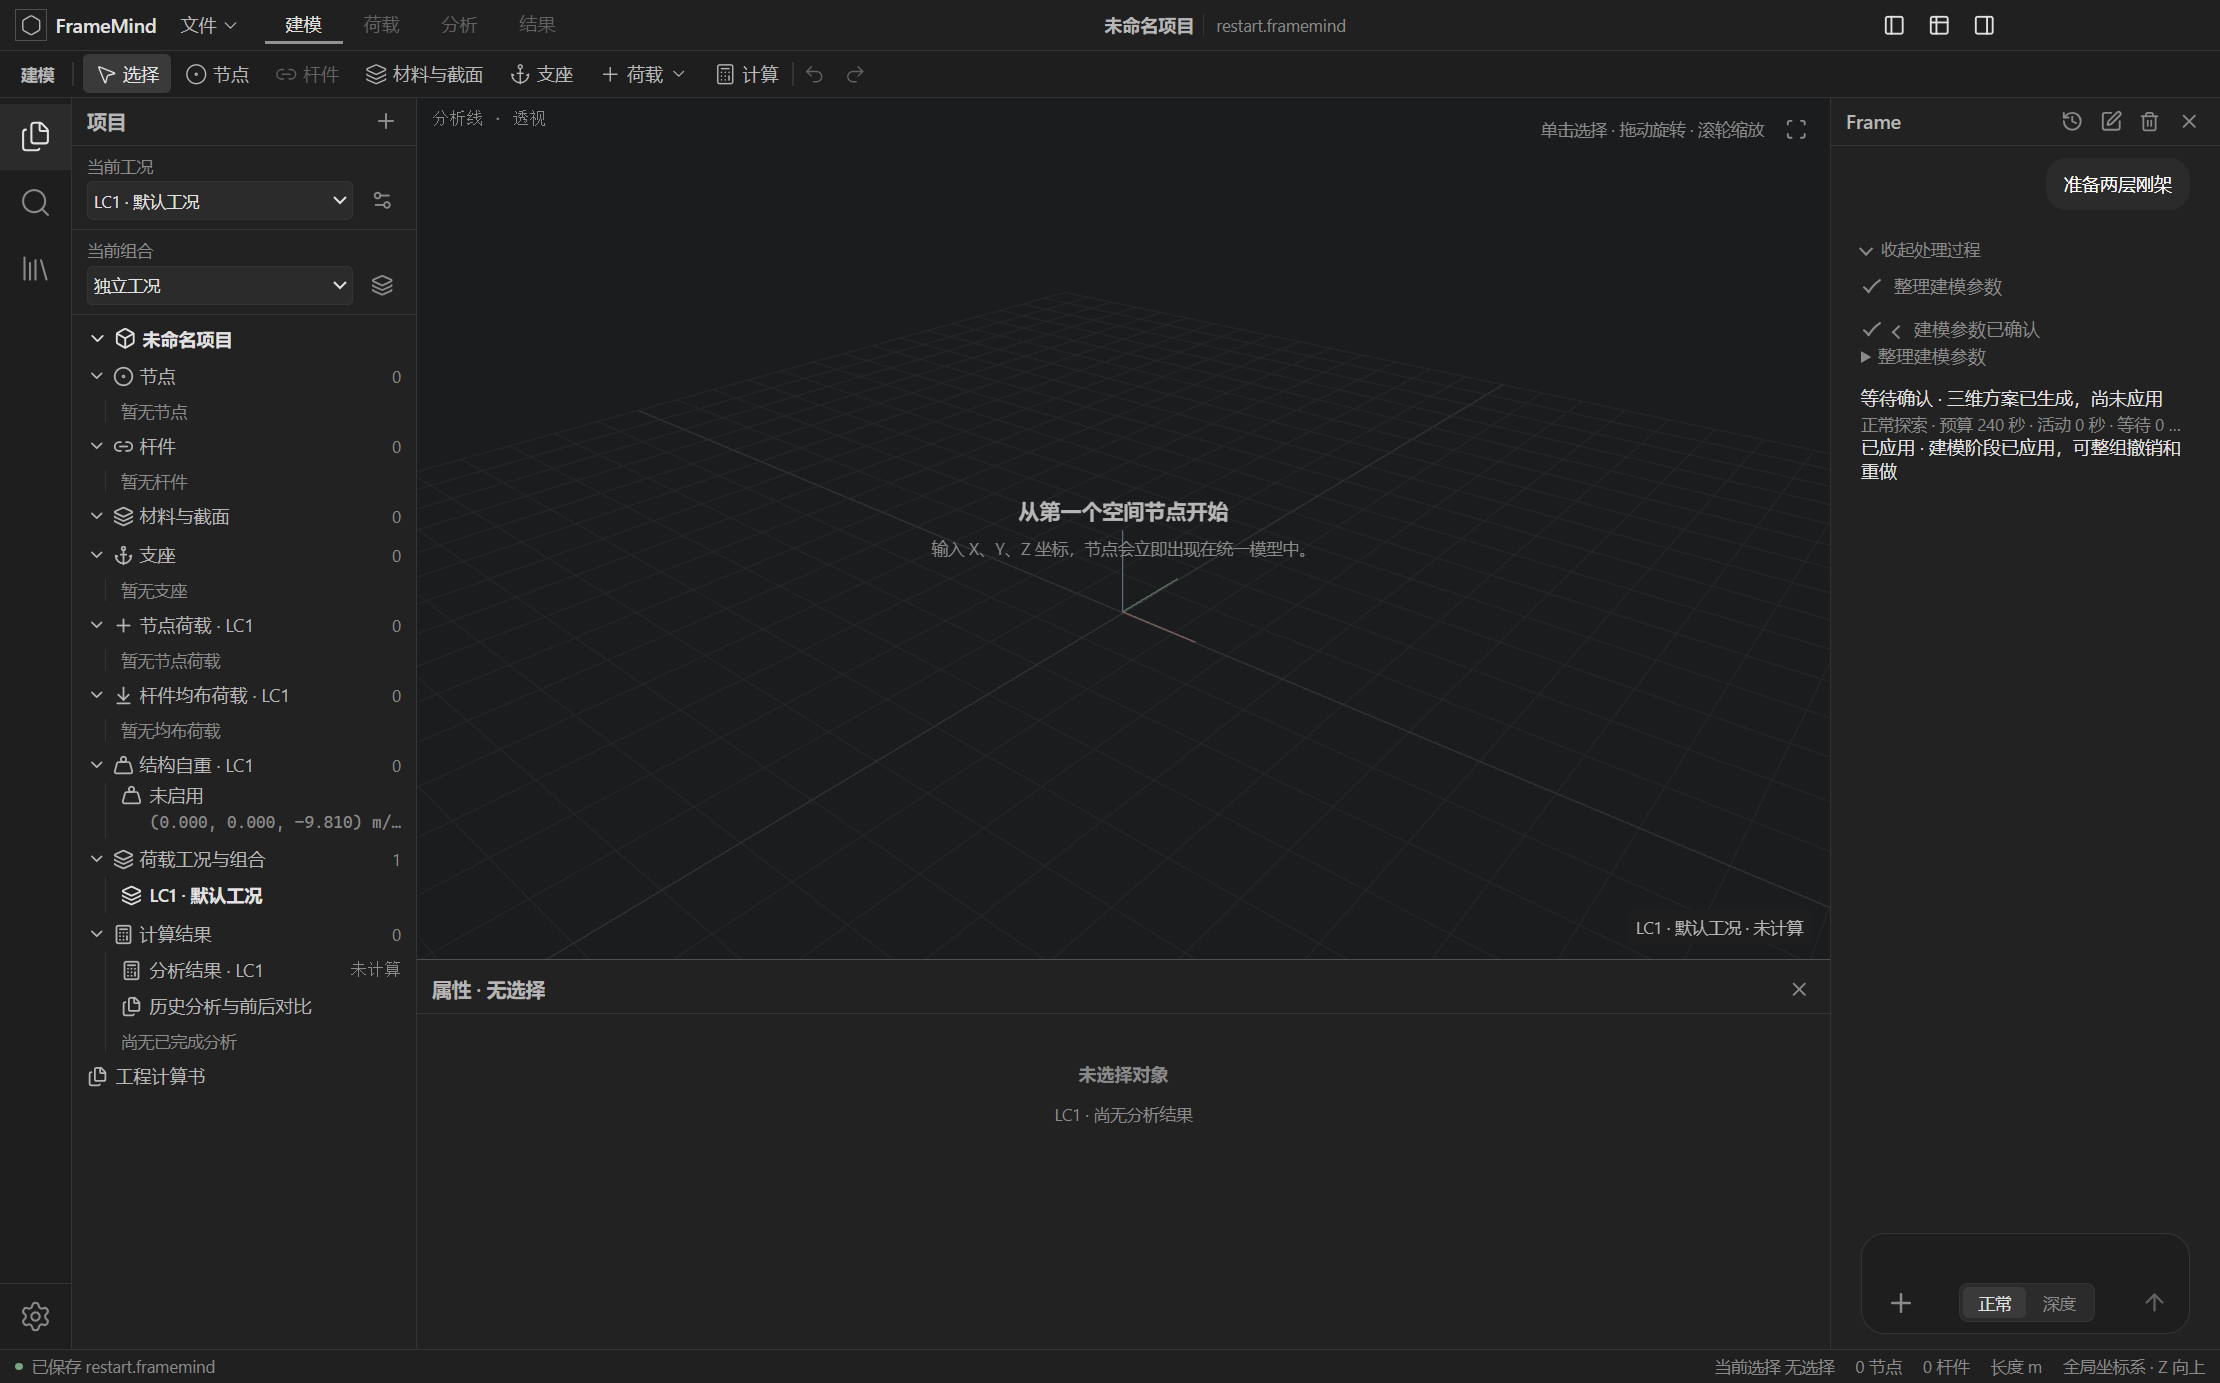
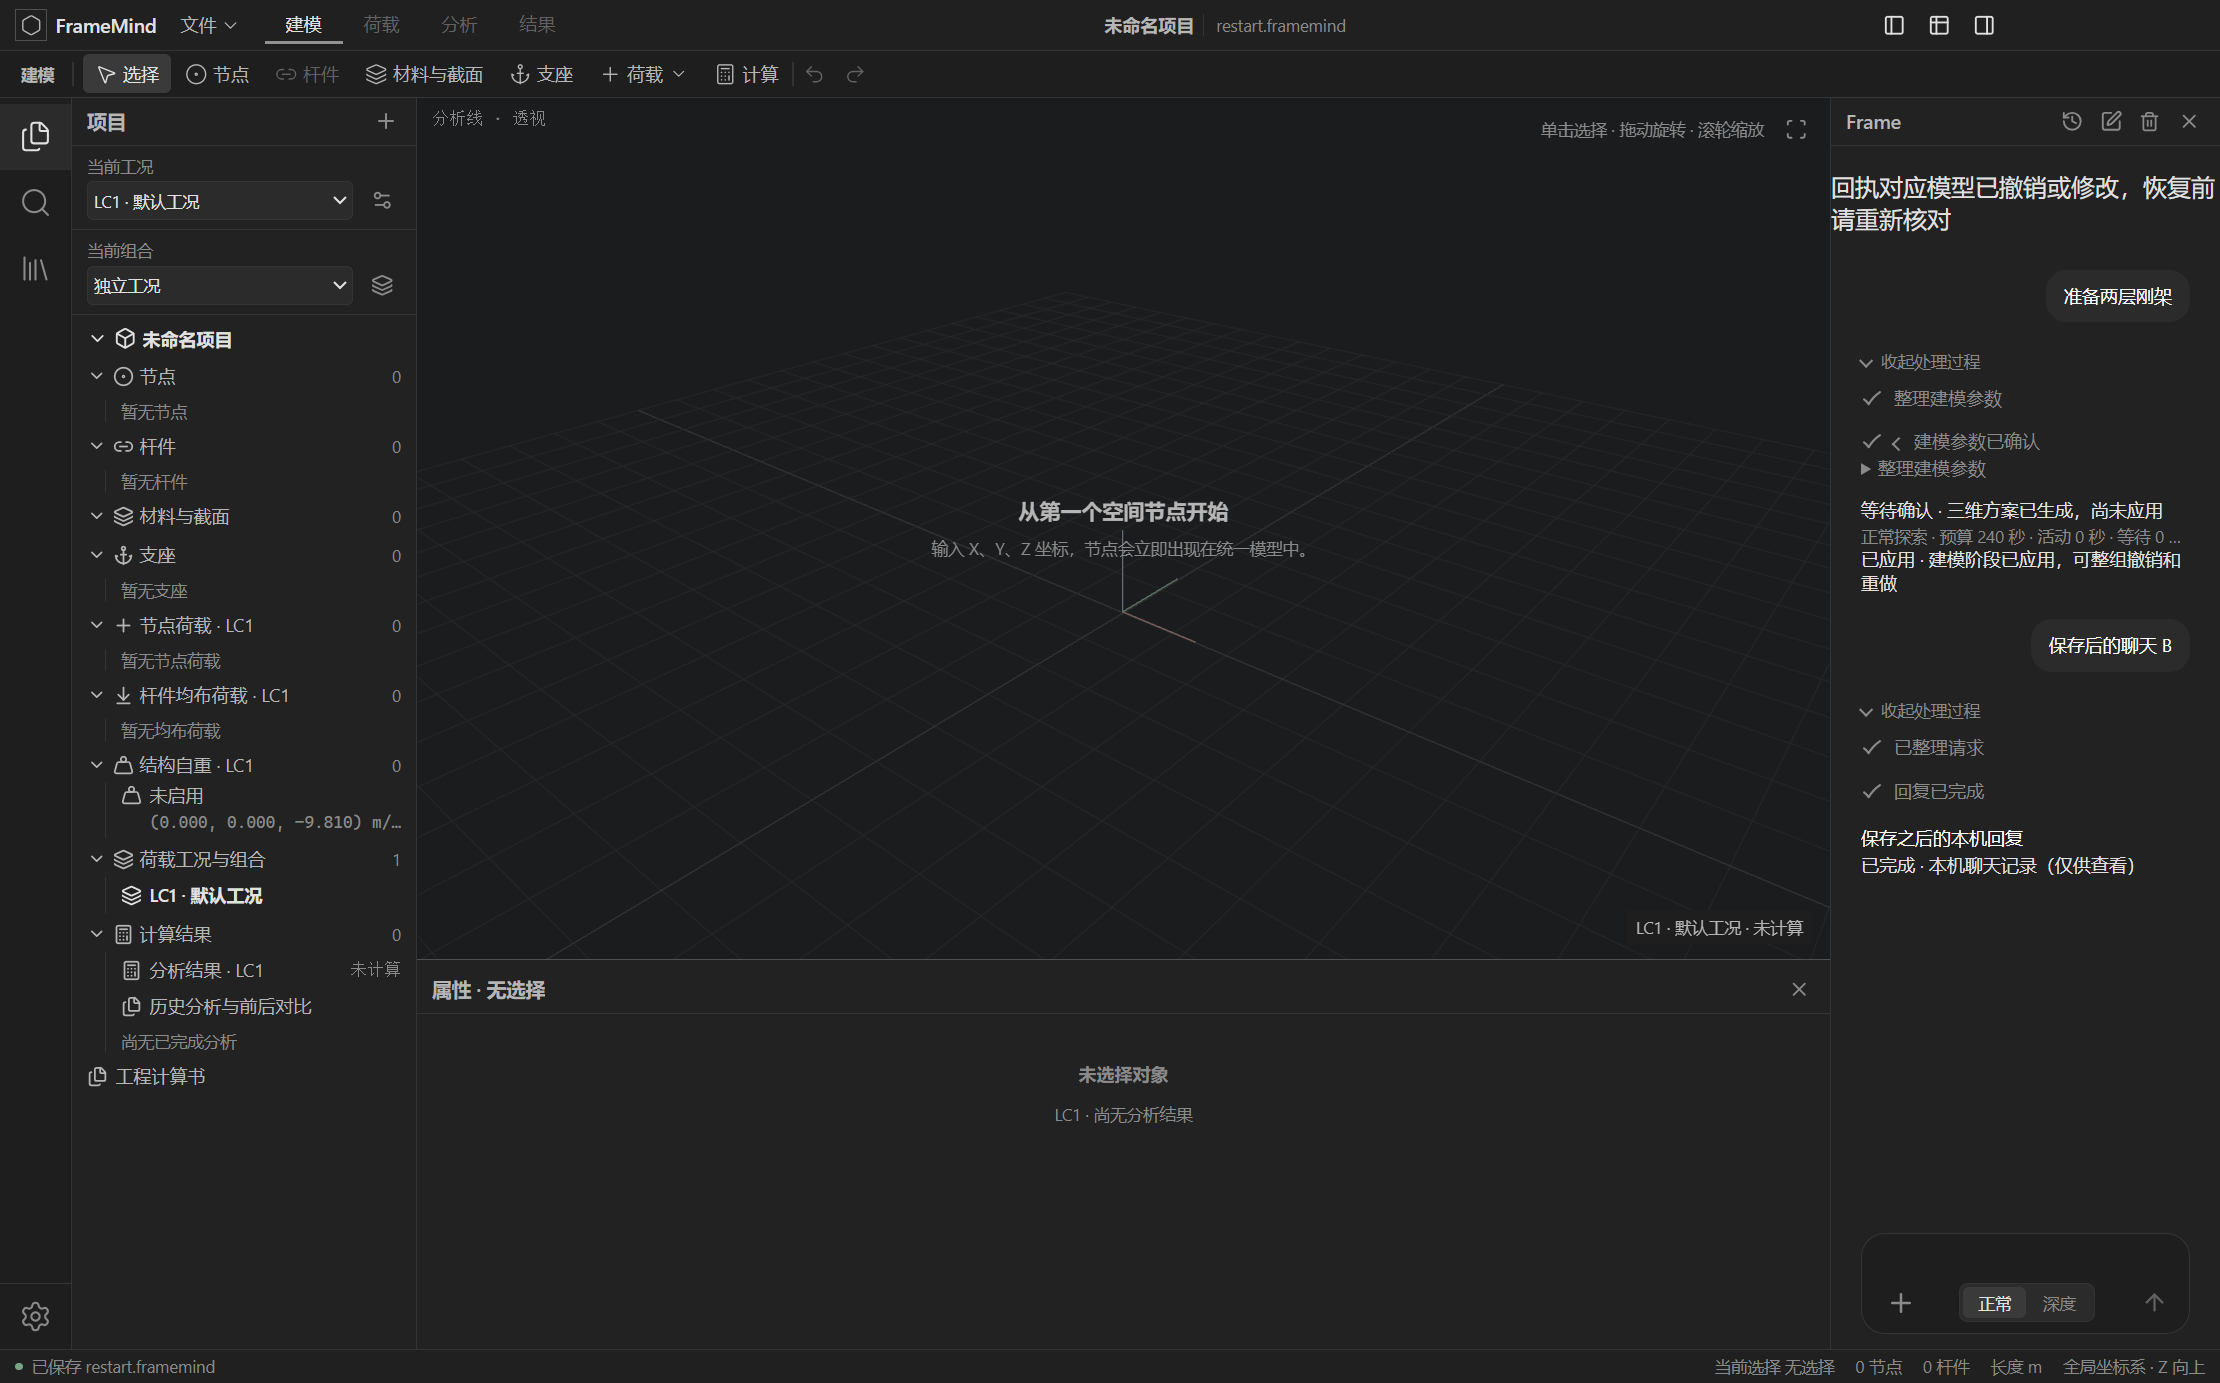
Keep recovery provenance tied to saved task turns and record final validation

Changed region(s): [[0.8081, 0.1244, 1.0, 0.4975], [0.8392, 0.4975, 0.9635, 0.6529], [0.9324, 0.1866, 0.9635, 0.2176]]

diff --git a/src/domain/project-restart.test.ts b/src/domain/project-restart.test.ts
@@ -1,10 +1,11 @@
 import { expect, it } from "vitest";
 import { decodeProject, encodeProject } from "./project-file";
+import { updateNode } from "./project";
 import { columns } from "../workspace/section-stage.fixture";
 import { captureAnalysisInput } from "./analysis";
 import { captureAiSnapshot, executeAiTool } from "../workspace/ai-tools";
 import { proposeModelEdits } from "../workspace/model-edits";
-import { mergeLocalChat, persistTaskState, type ConversationHistory } from "../workspace/task-persistence";
+import { mergeLocalChat, persistTaskState, recoveryIssues, type ConversationHistory } from "../workspace/task-persistence";
 
 function history(): ConversationHistory {
   const project = columns();
@@ -91,4 +92,13 @@ it("retains chat sent after a formal save and interrupted prose without importin
   expect(merged.turns[1].result?.assistant).toBe("后续回复");
   expect(merged.turns[1].modelEdits).toBeUndefined();
   expect(persistTaskState(project.id, [merged], []).conversations[0].turns).toHaveLength(1);
+});
+
+it("does not let a later local-only chat hide changed calculation provenance", () => {
+  const saved = history(); const base = saved.taskDraftSource;
+  saved.modelEdits = undefined; saved.calculationRequested = true;
+  const current = updateNode(base, base.nodes[1].id, { x: 0, y: 0, z: 5 });
+  const local = { ...saved, turns: [...saved.turns, { ...saved.turns[0], id: "local-later", prompt: "后续聊天" }] };
+  const merged = mergeLocalChat(current, [saved], [local])[0];
+  expect(recoveryIssues(current, merged).join(" ")).toContain("模型已变化");
 });

diff --git a/src/workspace/task-persistence.ts b/src/workspace/task-persistence.ts
@@ -139,8 +139,9 @@ export function recoveryIssues(project: FrameProject, conversation: Conversation
   const receipts = applied.map((record) => project.confirmedOperations?.find((entry) => sameInputValue(entry.result, record.result)));
   if (receipts.some((receipt) => !receipt)) issues.push("任务成功记录缺少对应回执，需重新核对");
   const latest = receipts.at(-1);
+  const lastTaskTurn = [...conversation.turns].reverse().find((turn) => !turn.localOnly);
   if (!hasDraft && latest && !sameInputValue(JSON.parse(latest.engineeringState), JSON.parse(engineeringState(project)))) issues.push("回执对应模型已撤销或修改，恢复前请重新核对");
-  if (!hasDraft && !latest && conversation.calculationRequested && !sameEngineeringState(conversation.turns.at(-1)?.sourceProject ?? conversation.taskDraftSource, project)) issues.push("已应用任务的模型已变化或已撤销，需核对后重新请求计算");
+  if (!hasDraft && !latest && conversation.calculationRequested && !sameEngineeringState(lastTaskTurn?.sourceProject ?? conversation.taskDraftSource, project)) issues.push("已应用任务的模型已变化或已撤销，需核对后重新请求计算");
   if (conversation.analysisSourceId && ![...project.loadCases, ...project.loadCombinations].some((item) => item.id === conversation.analysisSourceId)) issues.push("原计算来源已删除");
   return issues;
 }

diff --git a/docs/evidence/plan2/T2-09/acceptance.md b/docs/evidence/plan2/T2-09/acceptance.md
@@ -13,16 +13,18 @@
 
 | 入口 | 验证行为 |
 | --- | --- |
-| `src/domain/project-restart.test.ts`、`project-file.test.ts` | 旧格式迁移、身份／资源／荷载／历史保留、摘要与本机正文分离、队列与暂停／失败状态、未来／损坏／跨项目拒绝、本机旧草案不复活 |
+| `src/domain/project-restart.test.ts`、`project-file.test.ts` | 旧格式迁移、身份／资源／荷载／历史保留、摘要与本机正文分离、队列与暂停／失败状态、未来／损坏／跨项目拒绝、本机旧草案不复活、保存后的聊天／中断正文保留、进行中的已完成诊断事实保留、只读聊天不掩盖计算来源变化 |
 | `src/workspace/task-restart.test.ts` | 元数据保存不破坏确认，重开幂等、撤销后重开不重新应用、已应用待算与回执／模型核对 |
 | `electron/chat-history.test.ts`、`project-files.test.ts` | 25 轮完整本机聊天、项目隔离、凭据去除、路径校验、写入失败保留原记录及原项目 |
-| `e2e/plan2-t2-09-restart.spec.ts` | 实际关闭并重启 Electron；未确认草案、已应用待算、计算中及失败阶段；用户继续、无凭据离线求解、冻结输入同源、撤销回执与模型一致 |
+| `e2e/plan2-t2-09-restart.spec.ts` | 实际关闭并重启 Electron；未确认草案、已应用待算、计算中及失败阶段；用户继续、无凭据离线求解、冻结输入同源、撤销回执与模型一致、清空聊天后不复活、保存后的本机聊天保留、排队任务恢复仍绑定原目标 |
 
 桌面截图：[重开后的撤销回执](reopened-receipt.png)、[离线恢复计算](offline-resumed-analysis.png)。截图辅助说明界面，正确性由公开入口的工程／结果断言验证。
 
-验证结果：`npm run build` 通过（包含前后端类型检查）；`npm test -- --maxWorkers=4` 完整运行 50 个文件、358 项测试，全部通过。只限制并发，保留原有 5 秒用例超时和数值判据；并行运行 Electron 时曾触发两个大报告用例超时，分开运行后通过。
+验证结果：`npm run build` 通过（包含前后端类型检查）；最终 `npm test -- --maxWorkers=4` 完整运行 50 个文件、361 项测试，全部通过（20.11 秒）。只限制并发，保留原有 5 秒用例超时和数值判据；并行运行 Electron 时曾触发两个大报告用例超时，分开运行后通过。
 
-`node scripts/run-e2e-isolated.cjs e2e/plan2-t2-09-restart.spec.ts e2e/plan2-t2-05-coordination.spec.ts e2e/t06-analysis-task.spec.ts e2e/t27-ai-recovery.spec.ts`：17 项桌面测试通过（48.4 秒），其中 T2-09 四类阶段全部通过。旧会话恢复回归改用公开工程回执／任务记录核查，不要求恢复已删除的旧详情界面；重开未保存任务的测试明确处理用户丢弃修改提示。
+`node scripts/run-e2e-isolated.cjs e2e/plan2-t2-09-restart.spec.ts e2e/plan2-t2-05-coordination.spec.ts e2e/t06-analysis-task.spec.ts e2e/t27-ai-recovery.spec.ts`：18 项桌面测试通过（1.2 分钟），其中 T2-09 五项测试覆盖四类阶段和队列恢复。旧会话恢复回归改用公开工程回执／任务记录核查，不要求恢复已删除的旧详情界面；重开未保存任务的测试明确处理用户丢弃修改提示。
+
+代码审查：[Standards 与 Spec 独立审查及修复记录](review.md)。Standards 累计 3 项、Spec 2 项已全部处理；各正确性修复均有失败回归与通过结果。
 
 ## 未承诺的验收
 

diff --git a/docs/evidence/plan2/T2-09/review.md b/docs/evidence/plan2/T2-09/review.md
@@ -9,7 +9,9 @@
 1. **P2，正确性：** 空对话数组跳过本机写入，导致最后一段对话被清空后，重开仍从旧聊天文件恢复。修复为等待首次本机读取完成后正常写入 `[]`，避免初始化时误覆盖；实际桌面清空／保存／重启回归覆盖。
 2. **低优先级，可能的重复代码：** 回执核对与草案协调分别维护同一套工程字段。已提取共享 `engineeringContent`，修订号策略由各调用者明确控制；协调与重启测试覆盖。
 
-本轴 2 项，最严重为删除记录复活，已修复。
+3. **复核发现，正确性：** 新增的只读本机聊天轮次不能作为继续计算的工程来源。此前无回执任务取最后一轮的工程，而只读轮次绑定当前项目，会掩盖原输入已变化。现明确选择最后一轮正式任务，保持原来源核对；新增回归已证明修复前失败、修复后通过。
+
+本轴累计 3 项，删除记录复活及计算来源失效提示遗漏均已修复；字段重复也已处理。
 
 ## Spec
 
@@ -17,3 +19,5 @@
 2. **P2，US2-029“执行回执、剩余步骤和诊断摘要随项目保存”：** 等待下一次网络响应时，已完成的诊断证据仍在渐进输出中，保存时被丢弃。现将已完成工具事实转为中断摘要保存，助手正文留在本机；公开工具创建诊断副本后、下一轮未完成时的项目往返测试覆盖。
 
 本轴 2 项，最严重为本机聊天截断，已修复。未发现明确额外范围扩张。
+
+两轴复核确认原问题修复；Standards 复核发现的来源问题随后完成回归与修复。无未处理发现。
